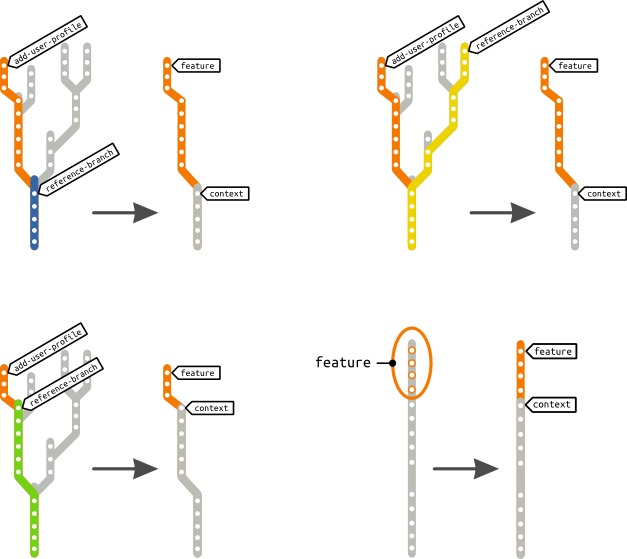
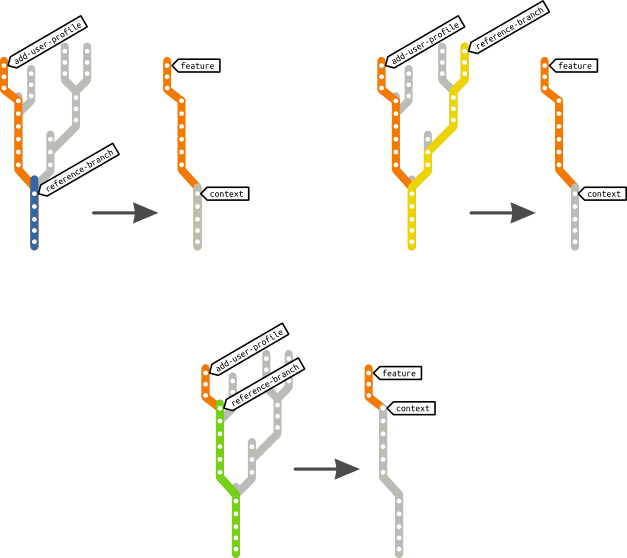
Fix split mistaken merged context examples
The generalization of context must come after the basic examples.

diff --git a/_drafts/2015-11-03-context-from-scratch.md b/_drafts/2015-11-03-context-from-scratch.md
@@ -33,7 +33,7 @@ Since we have a _convention_ about writing children commits above their parents,
 ![Graphical representation of a few commits implicitely ordered.](../../../../../images/gardening_with_git/commits-tree-simplified.png)
 
 With that modification the respository looks a lot like a **tree**, doesn't it?
-![Comparison of a collection of commits and a natrural tree.](../../../../../images/gardening_with_git/tree.png)
+![Comparison of a collection of commits and a natural tree.](../../../../../images/gardening_with_git/tree.png)
 
 ### Branches
 
@@ -164,11 +164,12 @@ Because of the importance of being able to **identify the context** when you're 
 Let's hold that thought: _depending on the reference branch we choose, what we call the <em>context</em> and what we call our <em>feature</em> will change slightly_.
 
 That idea of a **moving** context, which changes depending on our goals as for the branch opens the way to a _generalization_ of the context concept to a _single_ branch: once that we identified the commits we're focusing on (which we define as being _the&nbsp;feature_), each and every single commit down to the _initial commit_ are that feature's **context**.
+![The generalization of the context idea to a single branch.](../../../../../images/gardening_with_git/single-branch-context-generalization.png)
 
 To recapitulate:
 
 1. the context depends on **both** (all) the branches which are involved in the scenario (so there is no such thing as a branch context _per-se_, and the context will be different if you compare your branch to one branch or another)
-1. the concept of context can be generalized to a single branch: if you're interested in a given set of commits from a branch (let's call that sequence the _feature_), all the commits of that branch down the parent relationship are the context in which your feature is defined
+1. the concept of context can be generalized to a single branch: if you're interested in a given set of commits from a branch (let's call that sequence the _feature_), all the commits from that branch down the parent relationship are the context in which your feature is defined
 
 Identifying the current context when working with branches is something that you'll do often and which becomes easier with practice, so don't worry too much about that! Also, we'll see more examples in the next posts of this series.
 
